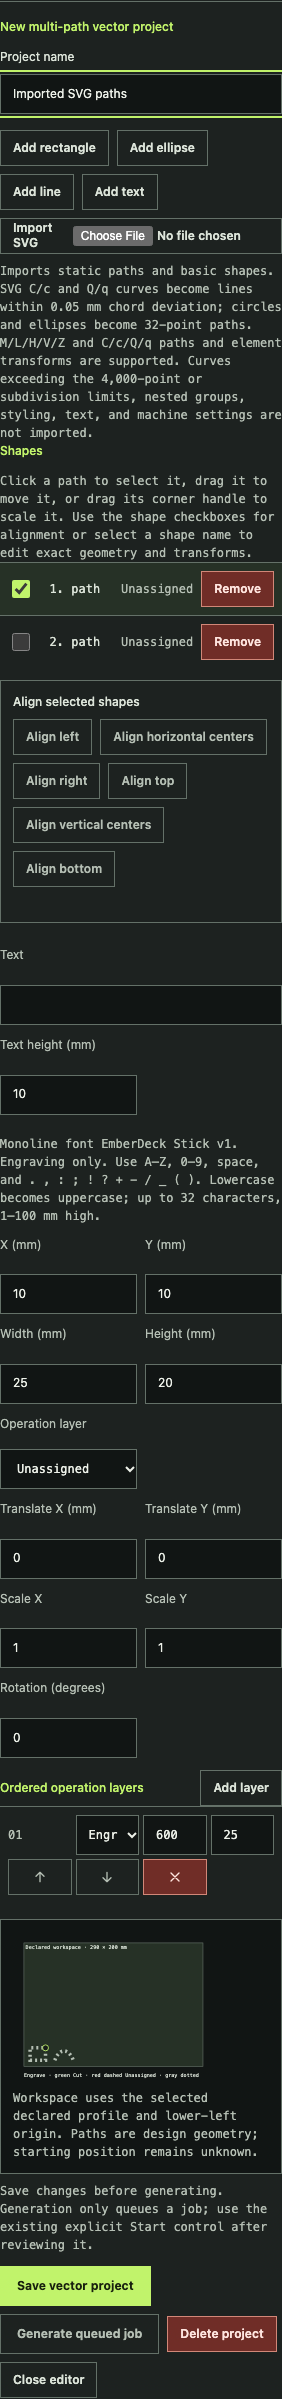
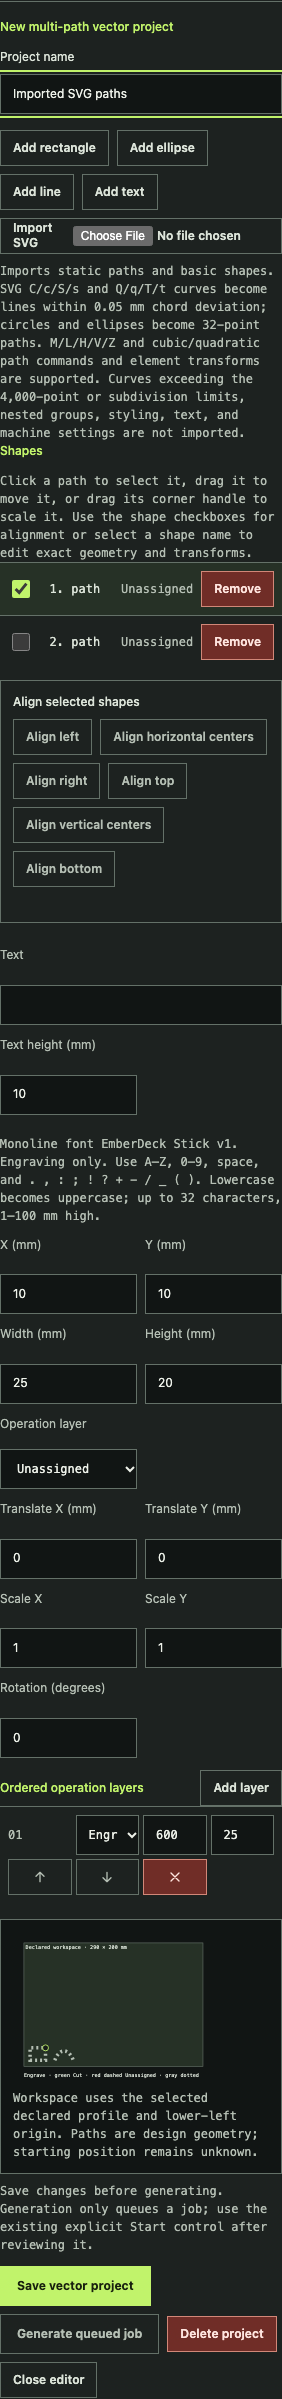
feat: support smooth SVG path curves (#104)
## Summary

- Support SVG smooth cubic (`S/s`) and smooth quadratic (`T/t`) path
segments, including relative commands and control-point resets after
non-curve commands.
- Flatten the curves through the existing bounded 0.05 mm importer path
and point budget.
- Update importer API/operator documentation, designer help, roadmap
status, browser coverage, and desktop/mobile import screenshots.

## Evidence

- **Before:** new `svgimport.Parse` tests failed because `S/s` and `T/t`
were rejected as unsupported.
- **After:** `go test ./svgimport ./internal/server` passes; focused SVG
browser import test passes (1/1); full Playwright suite passes (35/35);
`scripts/check.sh` and `npm run docs:screenshots` pass.
- Geometry tests cover absolute and relative smooth curves, reflected
control points, resets after a line command, endpoint mapping, and the
0.05 mm curve tolerance.

## Merge Danger

**Door:** Two-way

**Blast Radius:** Static SVG path parsing, importer documentation/help,
and its browser fixture. Reverting this commit restores explicit
rejection of smooth path commands.

Changed region(s): [[0.0, 0.1234, 0.9929, 0.1851]]

diff --git a/internal/server/assets/index.html b/internal/server/assets/index.html
@@ -100,7 +100,7 @@
                 <button class="button button-small" type="button" data-add-shape="text">Add text</button>
                 <label class="button button-small svg-import-button" for="vector-svg-file">Import SVG<input id="vector-svg-file" type="file" accept=".svg,image/svg+xml" disabled></label>
               </div>
-              <p class="hint">Imports static paths and basic shapes. SVG C/c and Q/q curves become lines within 0.05 mm chord deviation; circles and ellipses become 32-point paths. M/L/H/V/Z and C/c/Q/q paths and element transforms are supported. Curves exceeding the 4,000-point or subdivision limits, nested groups, styling, text, and machine settings are not imported.</p>
+              <p class="hint">Imports static paths and basic shapes. SVG C/c/S/s and Q/q/T/t curves become lines within 0.05 mm chord deviation; circles and ellipses become 32-point paths. M/L/H/V/Z and cubic/quadratic path commands and element transforms are supported. Curves exceeding the 4,000-point or subdivision limits, nested groups, styling, text, and machine settings are not imported.</p>
               <h4 class="vector-subhead">Shapes</h4><p class="hint">Click a path to select it, drag it to move it, or drag its corner handle to scale it. Use the shape checkboxes for alignment or select a shape name to edit exact geometry and transforms.</p><ul id="vector-object-list" class="vector-list" aria-label="Project shapes"></ul>
               <div id="vector-align-controls" class="vector-align-controls" role="group" aria-label="Align selected shapes">
                 <span class="vector-subhead">Align selected shapes</span>

diff --git a/e2e/designer.spec.js b/e2e/designer.spec.js
@@ -328,7 +328,7 @@ test('operator imports static SVG paths into an editable project and assigns the
 
   await page.getByRole('button', { name: 'New vector project' }).click();
   await page.locator('#vector-name').fill(projectName);
-  const svg = `<svg xmlns="http://www.w3.org/2000/svg" width="300mm" height="200mm" viewBox="0 0 300 200"><path d="M10 190 L40 190 L40 160 L10 160 Z"/><path d="M60 190 Q80 150 100 190"/></svg>`;
+  const svg = `<svg xmlns="http://www.w3.org/2000/svg" width="300mm" height="200mm" viewBox="0 0 300 200"><path d="M10 190 L40 190 L40 160 L10 160 Z"/><path d="M60 190 C70 180 80 180 90 190 S110 180 120 190 Q130 180 140 190 T160 190"/></svg>`;
   await page.locator('#vector-svg-file').setInputFiles({ name: 'panel.svg', mimeType: 'image/svg+xml', buffer: Buffer.from(svg) });
   await expect(page.locator('#notice .notice-message')).toContainText('Imported 2 editable SVG paths');
   await expect(page.locator('#vector-object-list li')).toHaveCount(2);

diff --git a/svgimport/svgimport.go b/svgimport/svgimport.go
@@ -425,6 +425,8 @@ func parsePath(source string, toMM func(Point) Point, maxPoints int) ([]Subpath,
 	subpaths := []Subpath{}
 	current := Point{}
 	start := Point{}
+	lastCubicControl, lastQuadraticControl := Point{}, Point{}
+	hasCubicControl, hasQuadraticControl := false, false
 	command := byte(0)
 	active := -1
 	closedSinceMove := false
@@ -457,9 +459,6 @@ func parsePath(source string, toMM func(Point) Point, maxPoints int) ([]Subpath,
 		if len(tokens[index]) == 1 && isLetter(tokens[index][0]) {
 			command = tokens[index][0]
 			index++
-			if strings.ContainsRune("SsTtAa", rune(command)) {
-				return nil, fmt.Errorf("path command %c is not supported; use M/L/H/V/C/Q/Z commands", command)
-			}
 		}
 		if command == 0 {
 			return nil, errors.New("path must start with a move command")
@@ -476,11 +475,12 @@ func parsePath(source string, toMM func(Point) Point, maxPoints int) ([]Subpath,
 			subpaths[active].Closed = true
 			current = start
 			closedSinceMove = true
+			hasCubicControl, hasQuadraticControl = false, false
 			command = 0
 			continue
 		}
-		if cmd != 'M' && cmd != 'L' && cmd != 'H' && cmd != 'V' && cmd != 'C' && cmd != 'Q' {
-			return nil, fmt.Errorf("path command %c is not supported; use M/L/H/V/C/Q/Z commands", command)
+		if cmd != 'M' && cmd != 'L' && cmd != 'H' && cmd != 'V' && cmd != 'C' && cmd != 'S' && cmd != 'Q' && cmd != 'T' {
+			return nil, fmt.Errorf("path command %c is not supported; use M/L/H/V/C/S/Q/T/Z commands", command)
 		}
 		if cmd != 'M' && closedSinceMove {
 			return nil, errors.New("a path needs a new M command after Z before drawing again")
@@ -490,6 +490,7 @@ func parsePath(source string, toMM func(Point) Point, maxPoints int) ([]Subpath,
 			previous := current
 			switch cmd {
 			case 'M', 'L':
+				hasCubicControl, hasQuadraticControl = false, false
 				x, err := readNumber()
 				if err != nil {
 					return nil, err
@@ -504,6 +505,7 @@ func parsePath(source string, toMM func(Point) Point, maxPoints int) ([]Subpath,
 				}
 				current = Point{XMM: x, YMM: y}
 			case 'H':
+				hasCubicControl, hasQuadraticControl = false, false
 				x, err := readNumber()
 				if err != nil {
 					return nil, err
@@ -513,6 +515,7 @@ func parsePath(source string, toMM func(Point) Point, maxPoints int) ([]Subpath,
 				}
 				current.XMM = x
 			case 'V':
+				hasCubicControl, hasQuadraticControl = false, false
 				y, err := readNumber()
 				if err != nil {
 					return nil, err
@@ -552,6 +555,37 @@ func parsePath(source string, toMM func(Point) Point, maxPoints int) ([]Subpath,
 				if err := flattenQuadratic(previous, control, endpoint, toMM, 0, func(point Point) error { return appendPoint(point) }); err != nil {
 					return nil, err
 				}
+				lastQuadraticControl, hasQuadraticControl = control, true
+				hasCubicControl = false
+				current = endpoint
+			case 'T':
+				if active < 0 {
+					return nil, errors.New("path curve command must follow a move")
+				}
+				x, err := readNumber()
+				if err != nil {
+					return nil, err
+				}
+				y, err := readNumber()
+				if err != nil {
+					return nil, err
+				}
+				if !upper {
+					x, y = x+previous.XMM, y+previous.YMM
+				}
+				control := previous
+				if hasQuadraticControl {
+					control = Point{XMM: 2*previous.XMM - lastQuadraticControl.XMM, YMM: 2*previous.YMM - lastQuadraticControl.YMM}
+				}
+				endpoint := Point{XMM: x, YMM: y}
+				if !finitePoint(control) || !finitePoint(endpoint) {
+					return nil, errors.New("path curve coordinate overflow")
+				}
+				if err := flattenQuadratic(previous, control, endpoint, toMM, 0, func(point Point) error { return appendPoint(point) }); err != nil {
+					return nil, err
+				}
+				lastQuadraticControl, hasQuadraticControl = control, true
+				hasCubicControl = false
 				current = endpoint
 			case 'C':
 				if active < 0 {
@@ -583,6 +617,44 @@ func parsePath(source string, toMM func(Point) Point, maxPoints int) ([]Subpath,
 				if err := flattenCubic(previous, control1, control2, endpoint, toMM, 0, func(point Point) error { return appendPoint(point) }); err != nil {
 					return nil, err
 				}
+				lastCubicControl, hasCubicControl = control2, true
+				hasQuadraticControl = false
+				current = endpoint
+			case 'S':
+				if active < 0 {
+					return nil, errors.New("path curve command must follow a move")
+				}
+				values := [4]float64{}
+				for i := range values {
+					value, err := readNumber()
+					if err != nil {
+						return nil, err
+					}
+					values[i] = value
+				}
+				if !upper {
+					for i := range values {
+						if i%2 == 0 {
+							values[i] += previous.XMM
+						} else {
+							values[i] += previous.YMM
+						}
+					}
+				}
+				control1 := previous
+				if hasCubicControl {
+					control1 = Point{XMM: 2*previous.XMM - lastCubicControl.XMM, YMM: 2*previous.YMM - lastCubicControl.YMM}
+				}
+				control2 := Point{XMM: values[0], YMM: values[1]}
+				endpoint := Point{XMM: values[2], YMM: values[3]}
+				if !finitePoint(control1) || !finitePoint(control2) || !finitePoint(endpoint) {
+					return nil, errors.New("path curve coordinate overflow")
+				}
+				if err := flattenCubic(previous, control1, control2, endpoint, toMM, 0, func(point Point) error { return appendPoint(point) }); err != nil {
+					return nil, err
+				}
+				lastCubicControl, hasCubicControl = control2, true
+				hasQuadraticControl = false
 				current = endpoint
 			}
 			if !finite(current.XMM) || !finite(current.YMM) {
@@ -595,7 +667,7 @@ func parsePath(source string, toMM func(Point) Point, maxPoints int) ([]Subpath,
 					return nil, err
 				}
 				closedSinceMove = false
-			} else if cmd != 'C' && cmd != 'Q' {
+			} else if cmd != 'C' && cmd != 'S' && cmd != 'Q' && cmd != 'T' {
 				if active < 0 {
 					return nil, errors.New("path line command must follow a move")
 				}

diff --git a/svgimport/svgimport_test.go b/svgimport/svgimport_test.go
@@ -136,6 +136,62 @@ func TestParseFlattensCubicAndRelativeQuadraticPathCommands(t *testing.T) {
 	}
 }
 
+func TestParseFlattensSmoothCubicAndQuadraticPathCommands(t *testing.T) {
+	source := []byte(`<svg width="140mm" height="100mm" viewBox="0 0 140 100"><path d="M10 80 C20 100 40 100 50 80 S80 60 90 80 Q100 100 110 80 T130 80"/></svg>`)
+	got, err := svgimport.Parse(source)
+	if err != nil {
+		t.Fatal(err)
+	}
+	path := got.Objects[0].Subpaths[0]
+	if path.Closed || len(path.Points) < 8 {
+		t.Fatalf("smooth cubic and quadratic commands produced an unexpected path: %#v", path)
+	}
+	if first, last := path.Points[0], path.Points[len(path.Points)-1]; first != (svgimport.Point{XMM: 10, YMM: 20}) || last != (svgimport.Point{XMM: 130, YMM: 20}) {
+		t.Fatalf("path endpoints = %#v and %#v, want (10,20) and (130,20)", first, last)
+	}
+	for sample := 0; sample <= 1000; sample++ {
+		testT := float64(sample) / 1000
+		if distanceToPolyline(cubicCoordinate(10, 20, 40, 50, testT), cubicCoordinate(20, 0, 0, 20, testT), path.Points) > svgimport.CurveToleranceMM+1e-6 {
+			t.Fatalf("first cubic sample at t=%.3f exceeds the documented chord tolerance", testT)
+		}
+		if distanceToPolyline(cubicCoordinate(50, 60, 80, 90, testT), cubicCoordinate(20, 40, 40, 20, testT), path.Points) > svgimport.CurveToleranceMM+1e-6 {
+			t.Fatalf("smooth cubic sample at t=%.3f exceeds the documented chord tolerance", testT)
+		}
+		if distanceToPolyline(90+20*testT, 20-40*testT*(1-testT), path.Points) > svgimport.CurveToleranceMM+1e-6 {
+			t.Fatalf("first quadratic sample at t=%.3f exceeds the documented chord tolerance", testT)
+		}
+		if distanceToPolyline(110+20*testT, 20+40*testT*(1-testT), path.Points) > svgimport.CurveToleranceMM+1e-6 {
+			t.Fatalf("smooth quadratic sample at t=%.3f exceeds the documented chord tolerance", testT)
+		}
+	}
+}
+
+func TestParseResetsSmoothControlPointsAndSupportsRelativeSmoothCommands(t *testing.T) {
+	source := []byte(`<svg width="160mm" height="100mm" viewBox="0 0 160 100"><path d="M10 80 c10 20 30 20 40 0 s40 -20 40 0 L100 80 s10 0 20 0 q10 20 20 0 t20 0"/><path d="M10 60 Q20 40 30 60 L40 60 T50 60"/></svg>`)
+	got, err := svgimport.Parse(source)
+	if err != nil {
+		t.Fatal(err)
+	}
+	path := got.Objects[0].Subpaths[0]
+	if path.Closed || len(path.Points) < 8 {
+		t.Fatalf("relative smooth commands produced an unexpected path: %#v", path)
+	}
+	if first, last := path.Points[0], path.Points[len(path.Points)-1]; first != (svgimport.Point{XMM: 10, YMM: 20}) || last != (svgimport.Point{XMM: 160, YMM: 20}) {
+		t.Fatalf("path endpoints = %#v and %#v, want (10,20) and (160,20)", first, last)
+	}
+	// After the line, S starts with the current point (100,20) as its first
+	// control rather than reflecting the earlier cubic control.
+	if distanceToPolyline(105, 20, path.Points) > svgimport.CurveToleranceMM {
+		t.Fatal("smooth cubic after a line did not reset its reflected control point")
+	}
+	resetQuadratic := got.Objects[1].Subpaths[0]
+	for _, point := range resetQuadratic.Points {
+		if point.XMM >= 40 && point.YMM != 40 {
+			t.Fatalf("smooth quadratic after a line used a reflected control: %#v", resetQuadratic.Points)
+		}
+	}
+}
+
 func cubicCoordinate(start, control1, control2, end, t float64) float64 {
 	oneMinusT := 1 - t
 	return oneMinusT*oneMinusT*oneMinusT*start + 3*oneMinusT*oneMinusT*t*control1 + 3*oneMinusT*t*t*control2 + t*t*t*end
@@ -238,8 +294,8 @@ func TestParseRejectsMalformedSVGNumberListsAndCurves(t *testing.T) {
 		"trailing points comma":    `<svg width="40mm" height="20mm" viewBox="0 0 40 20"><polyline points="0,0 1,1,"/></svg>`,
 		"trailing transform comma": `<svg width="40mm" height="20mm" viewBox="0 0 40 20"><polyline points="0,0 1,1" transform="translate(1,)"/></svg>`,
 		"line after close":         `<svg width="40mm" height="20mm" viewBox="0 0 40 20"><path d="M0 0 L10 0 L10 10 Z L20 20"/></svg>`,
-		"unsupported smooth cubic": `<svg width="40mm" height="20mm" viewBox="0 0 40 20"><path d="M0 0 S2 2 4 4"/></svg>`,
-		"unsupported smooth quad":  `<svg width="40mm" height="20mm" viewBox="0 0 40 20"><path d="M0 0 T4 4"/></svg>`,
+		"malformed smooth cubic":   `<svg width="40mm" height="20mm" viewBox="0 0 40 20"><path d="M0 0 S2 2 4"/></svg>`,
+		"malformed smooth quad":    `<svg width="40mm" height="20mm" viewBox="0 0 40 20"><path d="M0 0 T4"/></svg>`,
 		"unsupported arc":          `<svg width="40mm" height="20mm" viewBox="0 0 40 20"><path d="M0 0 A2 2 0 0 1 4 4"/></svg>`,
 		"malformed cubic path":     `<svg width="40mm" height="20mm" viewBox="0 0 40 20"><path d="M0 0 C1 2 3 4 5"/></svg>`,
 		"malformed quadratic path": `<svg width="40mm" height="20mm" viewBox="0 0 40 20"><path d="M0 0 Q1 2 3"/></svg>`,

diff --git a/docs/operator-guide.md b/docs/operator-guide.md
@@ -265,12 +265,14 @@ transform while keeping the group selection.
 ![Two transformed shapes selected for alignment with updated preview and alignment status](assets/screenshots/designer-vector-alignment.png)
 
 Choose **Import SVG** inside an open vector project to add static geometry. The
-importer supports straight path commands (M/L/H/V/Z), cubic and quadratic
-Bezier commands (C/c/Q/q), lines, polylines, polygons, rectangles, circles, and
-ellipses. Curves become line segments with at most 0.05 mm chord deviation after
-SVG and element transforms; imports that exceed the 16-level subdivision or
-4,000-point import limits are rejected. Circle and ellipse outlines become
-editable 32-point paths. Nested groups, smooth or arc commands, styles, text,
+importer supports straight path commands (M/L/H/V/Z), cubic Bezier commands
+(C/c/S/s), quadratic Bezier commands (Q/q/T/t), lines, polylines, polygons,
+rectangles, circles, and ellipses. Smooth commands reflect the prior compatible
+curve control point; otherwise they start from the current point. Curves become
+line segments with at most 0.05 mm chord deviation after SVG and element
+transforms; imports that exceed the 16-level subdivision or 4,000-point import
+limits are rejected. Circle and ellipse outlines become
+editable 32-point paths. Nested groups, arc commands, styles, text,
 external resources, and active content are rejected with an error. Imported
 shapes appear unassigned: inspect the preview and workspace bounds, select each
 shape, and assign its engraving or cutting layer before generating. Save and reopen the
@@ -394,7 +396,7 @@ Regenerate the screenshots from the current console and simulator with
 The current designer does not have SVG text import, undo/redo, or raster
 engraving. Native editable monoline text is supported as described above.
 SVG import supports straight paths and
-C/c/Q/q Bezier curves; nested groups, S/s/T/t smooth commands, and A/a arcs are
+C/c/S/s cubic and Q/q/T/t quadratic Bezier curves; nested groups and A/a arcs are
 not available. Live path correlation currently covers supported linear XY
 moves; arcs and unsupported coordinate modes are reported as warnings, and the
 view does not show declared machine bounds. The console also has no driver-adapter

diff --git a/docs/api.md b/docs/api.md
@@ -467,15 +467,16 @@ project endpoints. The root SVG must declare physical `width`, `height`, and
 The viewport is mapped to lower-left-origin millimetres. A mismatched aspect ratio
 requires explicit `preserveAspectRatio="none"`.
 
-The static subset supports direct-child paths made from M/L/H/V/Z line commands
-and C/c/Q/q cubic and quadratic Bezier commands, plus lines, polylines, polygons,
-rectangles, circles, ellipses, and element-level affine transforms. Curves are
-flattened deterministically to editable line segments with a maximum 0.05 mm
+The static subset supports direct-child paths made from M/L/H/V/Z line commands,
+C/c and S/s cubic Bezier commands, and Q/q and T/t quadratic Bezier commands,
+plus lines, polylines, polygons, rectangles, circles, ellipses, and element-level
+affine transforms. Curves are flattened deterministically to editable line
+segments with a maximum 0.05 mm
 chord deviation in final imported millimetre coordinates. Flattening rejects
 curves that cannot meet that tolerance within 16 subdivision levels or the
 4,000-point import limit. Circles and ellipses are represented by 32-point
 editable polylines.
-Smooth curve commands (S/s/T/t), elliptical arcs (A/a), group nesting, CSS/style,
+Elliptical arcs (A/a), group nesting, CSS/style,
 text, animation, DTD/entities, external references, and active content are
 rejected. Fill, stroke, colors, and SVG metadata never become laser operations.
 Imported geometry starts unassigned; assign each object to an explicit operation

diff --git a/docs/roadmap.md b/docs/roadmap.md
@@ -16,7 +16,7 @@ Simulator and software checks do not qualify a physical machine. See
   editor supports vector cutting and engraving and a bounded static SVG importer
   for line/Bezier paths, basic shapes, element transforms, multi-shape
   alignment, and editable monoline text engraving. SVG text import, nested
-  groups, smooth/arc commands, undo/redo, and raster engraving remain future
+  groups, arc commands, undo/redo, and raster engraving remain future
   work.
 - Uploaded-job review against a selected machine profile, including upload-time
   line validation, known or unknown path bounds, unsupported/incomplete-motion
@@ -90,7 +90,7 @@ designer's remaining capabilities are delivered.
   toolpaths. Keyboard-accessible multi-selection aligns left/center/right and
   top/middle/bottom using transformed bounds, saves the resulting translations,
   and preserves profile warnings. [Source review and remaining architecture](research/designer-architecture.md)
-  track nested SVG groups, smooth/arc commands, SVG text import, arbitrary path
+  track nested SVG groups, arc commands, SVG text import, arbitrary path
   editing, and raster evaluation. A bounded
   static SVG importer now converts basic shapes and
   line/Bezier paths into editable, unassigned geometry. Native text objects also

diff --git a/docs/research/designer-architecture.md b/docs/research/designer-architecture.md
@@ -44,10 +44,12 @@ geometry, and the server permits these open paths only on vector-engrave layers.
 No external runtime font dependency is used. Raster engraving remains
 unsupported.
 
-SVG `C/c` cubic and `Q/q` quadratic curves are flattened to editable
-millimetre polylines with a 0.05 mm chord tolerance after element transforms and
-viewport scaling, capped at 4,000 points and 16 subdivision levels. The importer
-rejects nested groups, `S/s` and `T/t` smooth commands, `A/a` arcs, styles, text,
+SVG `C/c` and `S/s` cubic curves and `Q/q` and `T/t` quadratic curves are flattened
+to editable millimetre polylines with a 0.05 mm chord tolerance after element
+transforms and viewport scaling, capped at 4,000 points and 16 subdivision
+levels. Smooth commands reflect the previous compatible control point, or use
+the current point when a different command intervenes. The importer
+rejects nested groups, `A/a` arcs, styles, text,
 and active or external content. V2 stores per-object translation, nonuniform
 scale, and rotation around the source bounds center; profile validation,
 preview, and generation apply the same rounded transform. Group alignment uses

diff --git a/docs/architecture.md b/docs/architecture.md
@@ -171,9 +171,9 @@ motion is surfaced as warnings. Position matching assumes `$13=0` and is not
 machine-bound or safety-qualified. The bounded SVG importer supports static line
 geometry, cubic/quadratic Bezier curves flattened at a 0.05 mm chord tolerance,
 and element-level affine transforms. It rejects styles, text, nested groups,
-smooth/arc commands, and active or external content. Rotation/alignment editing,
-multi-selection, undo/redo, nested SVG groups, and raster engraving remain future
-work; see the [designer plan](research/designer-architecture.md) and
+arc commands, and active or external content. Arbitrary path editing, undo/redo,
+nested SVG groups, and raster engraving remain future work; see the [designer
+plan](research/designer-architecture.md) and
 [operator guide](operator-guide.md).
 
 ## Confirmed controller control
